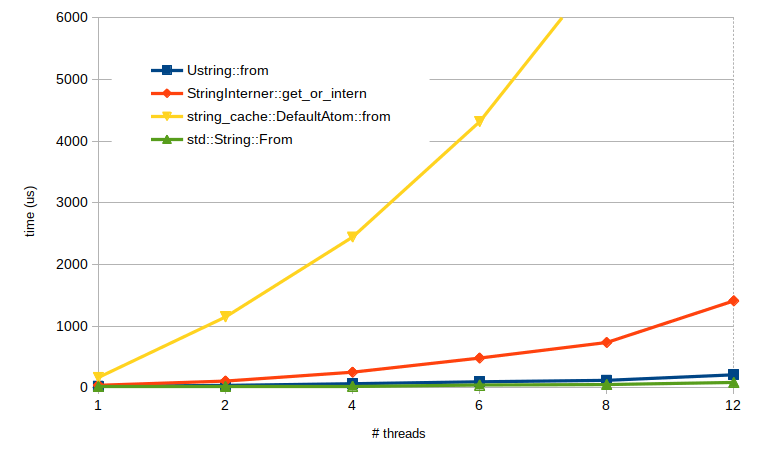
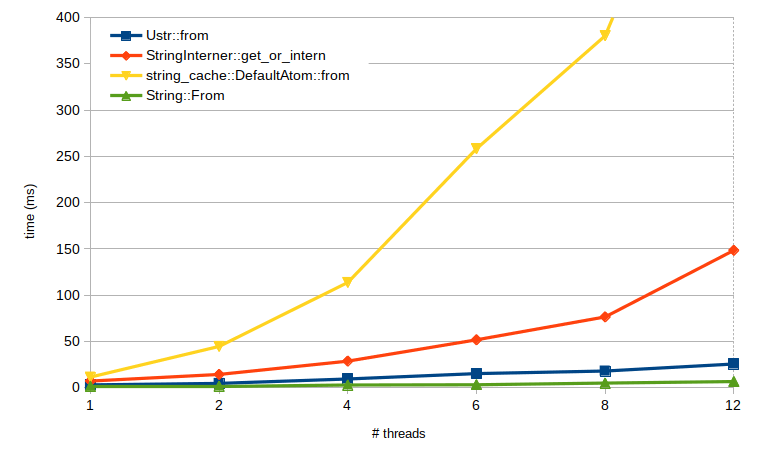
fix benches

diff --git a/benches/creation.rs b/benches/creation.rs
@@ -39,158 +39,57 @@ fn criterion_benchmark(c: &mut Criterion) {
             .collect::<Vec<_>>(),
     );
 
-    for s in raft.iter().take(5) {
-        println!("{}", s);
-    }
-
-    let num = 4_000;
-    for num_threads in [1, 2, 4, 6, 8, 12].iter() {
-        let num_threads = *num_threads;
-        let s = blns.clone();
-        c.bench_function(&format!("blns ustr x {} threads", num_threads), move |b| {
-            let (tx1, rx1) = bounded(0);
-            let (tx2, rx2) = bounded(0);
+    let s = raft.clone();
+    c.bench_function("single raft ustr", move |b| {
+        b.iter(|| {
             ustr::_clear_cache();
-            scope(|scope| {
-                for _ in 0..num_threads {
-                    scope.spawn(|_| {
-                        while rx1.recv().is_ok() {
-                            for s in s.iter().cycle().take(num) {
-                                black_box(u!(s));
-                            }
-                            tx2.send(()).unwrap();
-                        }
-                    });
-                }
-
-                b.iter(|| {
-                    for _ in 0..num_threads {
-                        tx1.send(()).unwrap();
-                    }
-
-                    for _ in 0..num_threads {
-                        rx2.recv().unwrap();
-                    }
-                });
-                drop(tx1);
-            })
-            .unwrap();
+            for s in s.iter().cycle().take(100_000) {
+                black_box(u!(s));
+            }
         });
+    });
 
-        let s = blns.clone();
-        c.bench_function(
-            &format!("blns string-interner x {} threads", num_threads),
-            move |b| {
-                let (tx1, rx1) = bounded(0);
-                let (tx2, rx2) = bounded(0);
-                let interner = spin::Mutex::new(StringInterner::default());
-                scope(|scope| {
-                    for _ in 0..num_threads {
-                        scope.spawn(|_| {
-                            while rx1.recv().is_ok() {
-                                for s in s.iter().cycle().take(num) {
-                                    let mut int = interner.lock();
-                                    black_box(int.get_or_intern(s));
-                                }
-                                tx2.send(()).unwrap();
-                            }
-                        });
-                    }
+    let s = raft.clone();
+    c.bench_function("single raft string-interner", move |b| {
+        b.iter(|| {
+            let mut interner = StringInterner::default();
+            for s in s.iter().cycle().take(100_000) {
+                black_box(interner.get_or_intern(s));
+            }
+        });
+    });
 
-                    b.iter(|| {
-                        for _ in 0..num_threads {
-                            tx1.send(()).unwrap();
-                        }
+    let s = raft.clone();
+    c.bench_function("single raft string-cache", move |b| {
+        b.iter(|| {
+            let mut v = Vec::with_capacity(100_000);
+            for s in s.iter().cycle().take(100_000) {
+                v.push(DefaultAtom::from(s.as_str()));
+            }
+            black_box(v);
+        });
+    });
 
-                        for _ in 0..num_threads {
-                            rx2.recv().unwrap();
-                        }
-                    });
-                    drop(tx1);
-                })
-                .unwrap();
-            },
-        );
+    let s = raft.clone();
+    c.bench_function("single raft String", move |b| {
+        b.iter(|| {
+            for s in s.iter().cycle().take(100_000) {
+                black_box(String::from(s));
+            }
+        });
+    });
 
-        let s = blns.clone();
-        c.bench_function(
-            &format!("blns string-cache x {} threads", num_threads),
-            move |b| {
-                let (tx1, rx1) = bounded(0);
-                let (tx2, rx2) = bounded(0);
-                scope(|scope| {
-                    for _ in 0..num_threads {
-                        scope.spawn(|_| {
-                            while rx1.recv().is_ok() {
-                                let mut v = Vec::with_capacity(num);
-                                for s in s.iter().cycle().take(num) {
-                                    v.push(DefaultAtom::from(s.as_str()));
-                                }
-                                tx2.send(()).unwrap();
-                            }
-                        });
-                    }
-
-                    b.iter(|| {
-                        for _ in 0..num_threads {
-                            tx1.send(()).unwrap();
-                        }
-
-                        for _ in 0..num_threads {
-                            rx2.recv().unwrap();
-                        }
-                    });
-                    drop(tx1);
-                })
-                .unwrap();
-            },
-        );
-
-        let s = blns.clone();
-        c.bench_function(
-            &format!("blns String::from x {} threads", num_threads),
-            move |b| {
-                let (tx1, rx1) = bounded(0);
-                let (tx2, rx2) = bounded(0);
-                scope(|scope| {
-                    for _ in 0..num_threads {
-                        scope.spawn(|_| {
-                            while rx1.recv().is_ok() {
-                                for s in s.iter().cycle().take(num) {
-                                    black_box(String::from(s));
-                                }
-                                tx2.send(()).unwrap();
-                            }
-                        });
-                    }
-
-                    b.iter(|| {
-                        for _ in 0..num_threads {
-                            tx1.send(()).unwrap();
-                        }
-
-                        for _ in 0..num_threads {
-                            rx2.recv().unwrap();
-                        }
-                    });
-                    drop(tx1);
-                })
-                .unwrap();
-            },
-        );
-    }
+    let num = 100_000;
 
     for num_threads in [1, 2, 4, 6, 8, 12].iter() {
         let num_threads = *num_threads;
 
         let s = Arc::clone(&raft);
-
         c.bench_function(&format!("raft ustr x {} threads", num_threads), move |b| {
             let (tx1, rx1) = bounded(0);
             let (tx2, rx2) = bounded(0);
             let s = Arc::clone(&s);
             scope(|scope| {
-                ustr::_clear_cache();
                 for tt in 0..num_threads {
                     let t = tt;
                     let rx1 = rx1.clone();
@@ -198,7 +97,7 @@ fn criterion_benchmark(c: &mut Criterion) {
                     let s = Arc::clone(&s);
                     scope.spawn(move |_| {
                         while rx1.recv().is_ok() {
-                            for s in s.iter().skip(t * 1000).take(1000) {
+                            for s in s.iter().cycle().skip(t * 17).take(num) {
                                 black_box(u!(s));
                             }
                             tx2.send(()).unwrap();
@@ -207,6 +106,7 @@ fn criterion_benchmark(c: &mut Criterion) {
                 }
 
                 b.iter(|| {
+                    ustr::_clear_cache();
                     for _ in 0..num_threads {
                         tx1.send(()).unwrap();
                     }
@@ -224,19 +124,18 @@ fn criterion_benchmark(c: &mut Criterion) {
         c.bench_function(
             &format!("raft string-interner x {} threads", num_threads),
             move |b| {
-                let (tx1, rx1) = bounded(0);
+                let (tx1, rx1) =
+                    bounded::<Arc<spin::Mutex<StringInterner<string_interner::Sym>>>>(0);
                 let (tx2, rx2) = bounded(0);
-                let interner = Arc::new(spin::Mutex::new(StringInterner::default()));
                 scope(|scope| {
                     for tt in 0..num_threads {
                         let t = tt;
                         let rx1 = rx1.clone();
                         let tx2 = tx2.clone();
                         let s = Arc::clone(&s);
-                        let interner = Arc::clone(&interner);
                         scope.spawn(move |_| {
-                            while rx1.recv().is_ok() {
-                                for s in s.iter().skip(t * 1000).take(1000) {
+                            while let Ok(interner) = rx1.recv() {
+                                for s in s.iter().cycle().skip(t * 17).take(num) {
                                     let mut int = interner.lock();
                                     black_box(int.get_or_intern(s));
                                 }
@@ -246,8 +145,9 @@ fn criterion_benchmark(c: &mut Criterion) {
                     }
 
                     b.iter(|| {
+                        let interner = Arc::new(spin::Mutex::new(StringInterner::default()));
                         for _ in 0..num_threads {
-                            tx1.send(()).unwrap();
+                            tx1.send(interner.clone()).unwrap();
                         }
 
                         for _ in 0..num_threads {
@@ -274,8 +174,8 @@ fn criterion_benchmark(c: &mut Criterion) {
                         let s = Arc::clone(&s);
                         scope.spawn(move |_| {
                             while rx1.recv().is_ok() {
-                                let mut v = Vec::with_capacity(1000);
-                                for s in s.iter().skip(t * 1000).take(1000) {
+                                let mut v = Vec::with_capacity(num);
+                                for s in s.iter().cycle().skip(t * 17).take(num) {
                                     v.push(DefaultAtom::from(s.as_str()));
                                 }
                                 tx2.send(()).unwrap();
@@ -312,7 +212,7 @@ fn criterion_benchmark(c: &mut Criterion) {
                         let s = Arc::clone(&s);
                         scope.spawn(move |_| {
                             while rx1.recv().is_ok() {
-                                for s in s.iter().skip(t * 1000).take(1000) {
+                                for s in s.iter().cycle().skip(t * 17).take(num) {
                                     black_box(String::from(s));
                                 }
                                 tx2.send(()).unwrap();
@@ -337,5 +237,9 @@ fn criterion_benchmark(c: &mut Criterion) {
     }
 }
 
-criterion_group!(benches, criterion_benchmark);
+criterion_group!(
+    name = benches;
+    config = Criterion::default().sample_size(30);
+    targets = criterion_benchmark
+);
 criterion_main!(benches);

diff --git a/README.md b/README.md
@@ -39,8 +39,8 @@ Creating a `string_cache::DefaultAtom` is much slower than creating a `Ustr`, es
 [string-interner](https://github.com/robbepop/string-interner) gives you individual `Interner` objects to work with rather than a global cache, which could be more flexible. It's faster to create than string-cache but still significantly slower than `Ustr`. 
 
 # Speed
-Ustrs are significantly faster to create than string-interner or string-cache. Creating 4000 cycled copies of the 1315 strings in the Big List of Naughty Strings: 
-![blns bench](ustring_bench_blns.png)
+Ustrs are significantly faster to create than string-interner or string-cache. Creating 100,000 cycled copies of ~20,000 path strings:
+![raft bench](ustring_bench_raft.png)
 
 # Testing
 Note that tests must be run with RUST_TEST_THREADS=1 or some tests will fail due to concurrent tests filling the cache.
